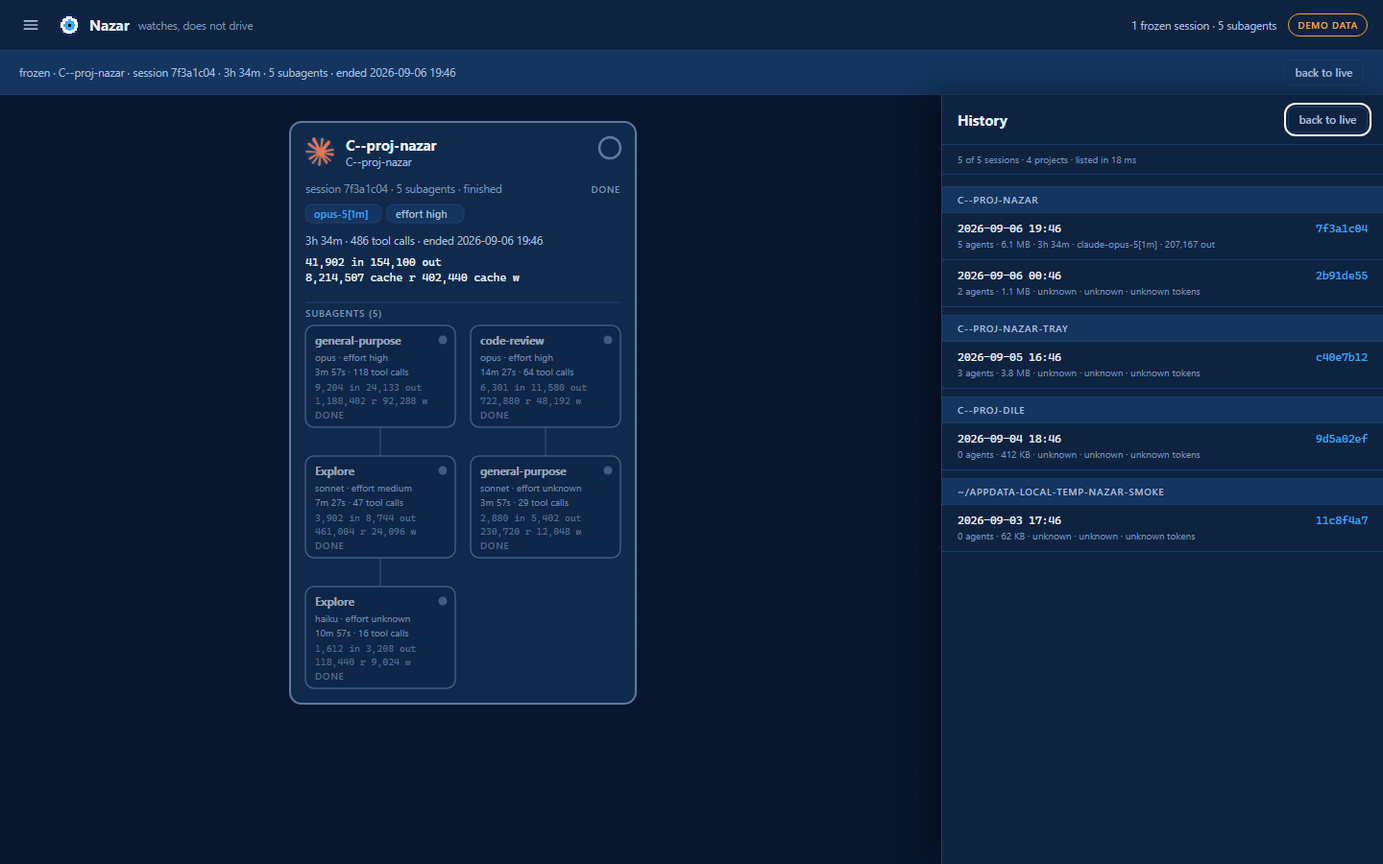
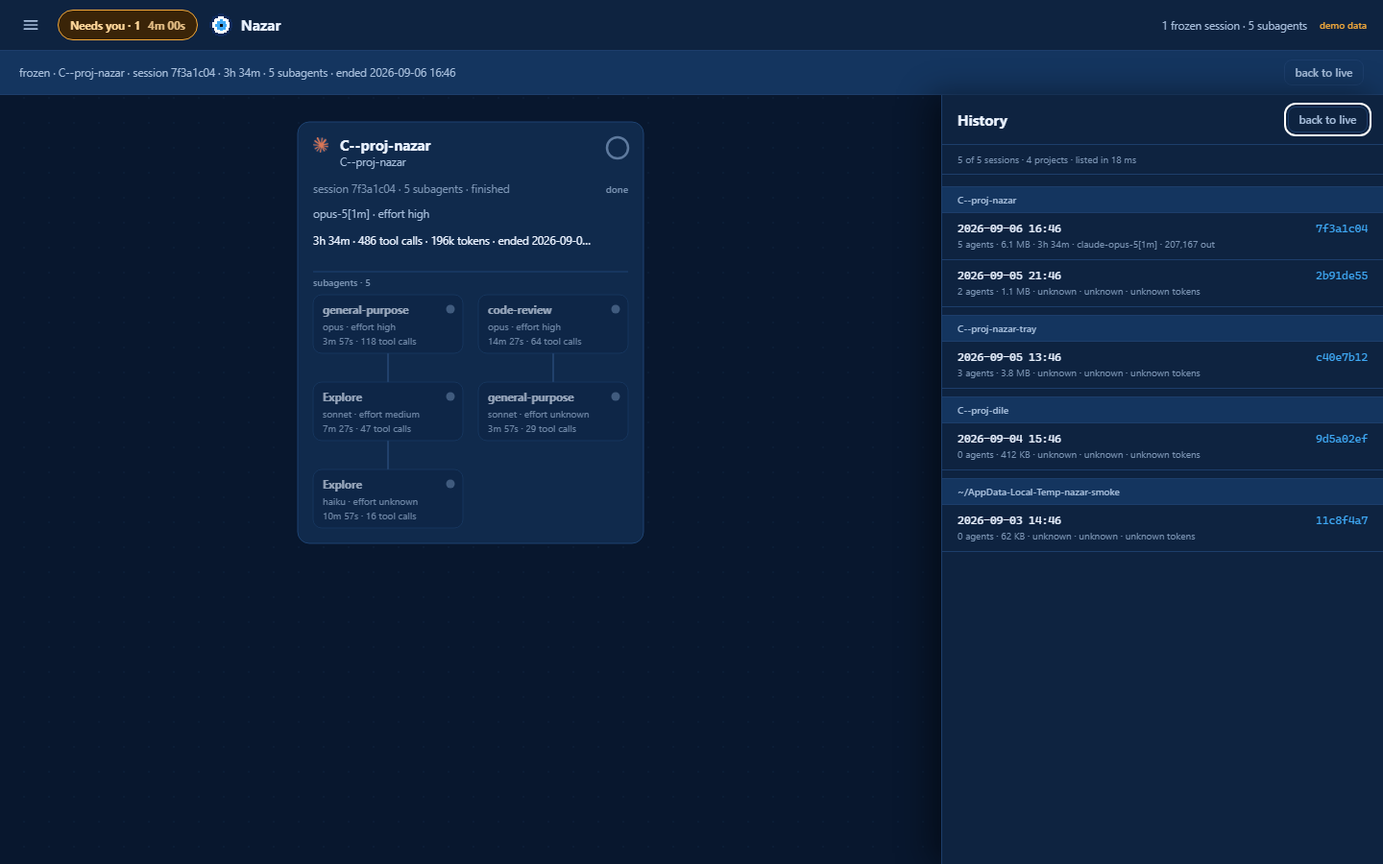
docs(readme): a screenshot beside every feature
N-WP22. The README carried fourteen pictures and five of them were stacked at
the top, so a reader who wanted to know what a folder tab, a card menu or the
Needs-you strip looked like had to read a paragraph and imagine it. Eight of
the ten shots taken for N-WP10 through N-WP21 now sit beside the paragraph
they belong to, each with the hand-written alt text an image costs here, and
the four at the top were re-picked: the quiet card leads, the Needs-you strip
is third, and the two tree pictures moved down to the paragraph about folding
a tree away. Twenty-two pictures, and no feature described without one.

Seven shots had to be retaken, and every one of them was a window too small
for the sentence beside it. wp4c-sixty-agents-dark was cut off at 950 px, so
the picture of a card that grew to hold sixty subagents was a picture of a
crop; it is 1900 now. The wp4g pair was cut through the second row of cards at
800, because a tab bar takes a row off the top of every projects=1 shot.
n-wp13-language-tr-dark opened the settings panel and stopped there, which on
a panel that scrolls is a picture of Appearance rather than of the language
picker, so it scrolls to it. And wp4c-dragged-dark was a card standing still
with its name field open: the drag started at the handle's centre, and the
transparent rename strip over the title covers the top 20 px of that handle
and takes the press first. It grabs low in the handle now, which is what `at`
on a drag step is for.
[…]

diff --git a/packages/ui/src/demo.ts b/packages/ui/src/demo.ts
@@ -27,8 +27,10 @@ import type {
   StateSnapshot,
 } from '@nazar/core';
 
+import { isWaiting } from './activity.js';
 import type { DemoQuotaSource } from './demo-quota.js';
 import { makeDemoQuota } from './demo-quota.js';
+import type { NeedsYouState, WaitSince } from './needs-you.js';
 
 const MINUTE = 60_000;
 
@@ -700,6 +702,53 @@ export function makeDemoState(options: DemoOptions = {}): StateSnapshot {
 }
 
 /* ------------------------------------------------------------------ *
+ * N-WP21 on a canvas whose clock does not move
+ * ------------------------------------------------------------------ */
+
+/**
+ * How long the demo's waiting session has already been waiting.
+ *
+ * The Needs-you strip keeps its clocks in memory and starts them at the frame
+ * it first sees a wait — a deliberate limit, and the reason a freshly loaded
+ * page reads `0s` beside a question that was asked before it opened. On a real
+ * canvas that number climbs while you look at it. On the demo, whose clock is a
+ * constant so that two screenshot runs agree byte for byte, it never does: the
+ * strip started counting at `generatedAt` and is being read at `generatedAt`,
+ * so every picture of it showed `0s` — the one number the strip exists to make
+ * legible, and the only one it could not show.
+ *
+ * So the demo hands the strip a memory instead of letting it start from
+ * nothing. Four minutes, measured from the snapshot's own `generatedAt` rather
+ * than from a real clock, which keeps the picture as fixed as the rest of the
+ * canvas.
+ */
+export const DEMO_WAITED_MS = 4 * MINUTE;
+
+/**
+ * The strip's memory as the demo canvas starts with it.
+ *
+ * Only `waiting` is filled. `active` and `finished` are left empty on purpose:
+ * `observeSessions` builds the *while you were away* cluster out of a
+ * transition — work in flight on the previous frame and none on this one — so a
+ * seeded `active` would invent one and announce sessions as having just
+ * finished that the demo never ran.
+ */
+export function demoNeedsYou(state: StateSnapshot): NeedsYouState {
+  const waiting = new Map<string, WaitSince>();
+  for (const session of state.sessions) {
+    if (!isWaiting(session)) continue;
+    waiting.set(session.id, {
+      // The raw value and not a translated one: `observeSessions` compares this
+      // against the session's own `waitingFor` to decide whether this is still
+      // the same wait, and a mismatch would reset the clock on the next frame.
+      waitingFor: session.waitingFor ?? '',
+      since: state.generatedAt - DEMO_WAITED_MS,
+    });
+  }
+  return { waiting, active: new Set(), finished: new Map() };
+}
+
+/* ------------------------------------------------------------------ *
  * The fixtures the demo canvas dresses itself with (moved here by N-WP13)
  *
  * They used to sit in `web/app.ts`, where the i18n sweep found them and was
@@ -725,18 +774,24 @@ export interface DemoNote {
  * of thing a note on this canvas is actually for — a reminder attached to a
  * place on a map — rather than lorem ipsum, which would prove nothing about the
  * width the text has to survive.
+ *
+ * They sit **under** the cards rather than beside them. Their first home was
+ * the empty column to the right of the second row, which stopped being empty
+ * the day N-WP18 put a fifth card there: the screenshot then showed three
+ * sticky notes covering a session, which is a picture of an accident. A row of
+ * its own cannot be taken by a sixth.
  */
 export const DEMO_NOTES: readonly DemoNote[] = [
   {
-    x: 790,
-    y: 500,
+    x: 30,
+    y: 840,
     colour: 1,
     text: 'the long one on the left is the release build — leave it alone until the installer is signed',
   },
-  { x: 1035, y: 500, colour: 3, text: 'weekly window resets Sunday 04:00' },
+  { x: 275, y: 840, colour: 3, text: 'weekly window resets Sunday 04:00' },
   {
-    x: 1280,
-    y: 500,
+    x: 520,
+    y: 840,
     colour: 4,
     text: 'waiting on a permission prompt again: check the sandbox rule before answering',
   },

diff --git a/packages/ui/test/demo.test.ts b/packages/ui/test/demo.test.ts
@@ -13,8 +13,9 @@ import assert from 'node:assert/strict';
 import '../test/catalogs.ts';
 import test from 'node:test';
 
-import { agentActivity, sessionActivity } from '../src/activity.ts';
-import { forestOf, makeDemoState } from '../src/demo.ts';
+import { agentActivity, isWaiting, sessionActivity } from '../src/activity.ts';
+import { DEMO_WAITED_MS, demoNeedsYou, forestOf, makeDemoState } from '../src/demo.ts';
+import { observeSessions, waitingRows } from '../src/needs-you.ts';
 
 const NOW = 1_788_756_000_000;
 
@@ -155,4 +156,28 @@ test('zero sessions is a legal demo canvas, so the empty state is reachable', ()
   const state = makeDemoState({ now: NOW, sessions: 0 });
   assert.deepEqual(state.sessions, []);
   assert.equal(state.generatedAt, NOW);
+});
+
+test('N-WP21: the strip starts with the demo wait already four minutes old', () => {
+  const state = makeDemoState({ now: NOW });
+  const seeded = demoNeedsYou(state);
+
+  const waiting = state.sessions.filter(isWaiting);
+  assert.equal(waiting.length, 1, 'one waiting session, or the picture proves nothing');
+  assert.equal(seeded.waiting.size, waiting.length);
+  assert.equal(seeded.active.size, 0, 'a seeded `active` would invent a finished run');
+  assert.equal(seeded.finished.size, 0);
+
+  const [session] = waiting;
+  assert.ok(session !== undefined);
+  const since = seeded.waiting.get(session.id);
+  assert.ok(since !== undefined);
+  assert.equal(since.since, NOW - DEMO_WAITED_MS);
+  // Raw and not translated, so `observeSessions` reads it as the same wait and
+  // keeps the clock rather than restarting it on the next frame.
+  assert.equal(since.waitingFor, session.waitingFor);
+
+  // The number the strip actually draws, against the demo's own fixed clock.
+  const rows = waitingRows(observeSessions(seeded, state.sessions, NOW), state.sessions, NOW);
+  assert.equal(rows[0]?.waited, '4m 00s');
 });

diff --git a/packages/ui/web/app.ts b/packages/ui/web/app.ts
@@ -25,7 +25,13 @@ import type { ColourOverrides } from '../src/colours.ts';
 import { readColours, writeColours } from '../src/colours.ts';
 import { contextActionOf } from '../src/contextmenu.ts';
 import { DEMO_HISTORY_IDS, makeDemoHistory } from '../src/demo-history.ts';
-import { DEMO_NOTES, DEMO_PROJECT_ROOTS, DEMO_CARD_NAMES, makeDemoState } from '../src/demo.ts';
+import {
+  DEMO_NOTES,
+  DEMO_PROJECT_ROOTS,
+  DEMO_CARD_NAMES,
+  demoNeedsYou,
+  makeDemoState,
+} from '../src/demo.ts';
 import { emptyStateLines } from '../src/empty.ts';
 import {
   basename,
@@ -3141,6 +3147,10 @@ function start(): void {
       ...(demoQuota === undefined ? {} : { quota: demoQuota }),
     });
     setConnection('demo');
+    // N-WP21. The strip's clocks start at the first frame, and the demo's clock
+    // never moves, so without this the Needs-you row reads `0s` beside a
+    // question nobody has answered — the one number it exists to show.
+    needsYou.seed(demoNeedsYou(state));
     // Two switches the screenshots need, so a shot of a folded card or an open
     // sidebar is a URL rather than a script of clicks.
     if (params.get('sidebar') === '1') sidebar.set(true, false);

diff --git a/packages/ui/web/needs-you.ts b/packages/ui/web/needs-you.ts
@@ -131,6 +131,20 @@ export class NeedsYouStrip {
     options.panel.addEventListener('keydown', (event) => this.onKey(event));
   }
 
+  /**
+   * Start from a memory rather than from nothing. `?demo=1` only.
+   *
+   * The clocks in this strip start at the frame that first sees a wait, which
+   * on a canvas whose clock is pinned means they never leave zero. The demo
+   * canvas therefore says how long its waiting session has been waiting —
+   * `demoNeedsYou` in `src/demo.ts` — and the live canvas never calls this: a
+   * real page genuinely does not know what happened before it opened, and
+   * saying otherwise would be the guess this whole module refuses to make.
+   */
+  seed(memory: NeedsYouState): void {
+    this.memory = memory;
+  }
+
   /** True while the panel is on screen. */
   get isOpen(): boolean {
     return this.open;

diff --git a/README.md b/README.md
@@ -8,15 +8,13 @@ It watches. It does not launch, control, or answer permission prompts. **It inst
 
 > Status: **0.1.0, feature-complete and not yet published.** Everything below is built and smoke-tested on Windows, macOS and Linux: the free canvas with tabs, the activity frames, the Windows desktop shell and its jump to terminal, usage limits, cost and context window, four themes, your own frame colours, sticky notes, card resize, clear-finished, card names and projects. What is missing is the release itself — it is not on npm yet, so `npx @xfurqan0/nazar` will not resolve until the first one. Until then, clone it and run from source (see [Development](#development)). [docs/PROJECT.md](docs/PROJECT.md) holds the v1 plan; [CHANGELOG.md](CHANGELOG.md) holds what 0.1.0 contains.
 
-![The Nazar canvas: four sessions with their subagent trees. The working one has a green ring and reads working, the resting one a blue ring reading idle, the one whose process stopped answering a dashed grey ring reading unknown, and the one waiting on a permission prompt is the single card with a coloured border, in amber, reading permission prompt](docs/screenshots/wp4d-activity-dark.png)
+![The Nazar canvas: five session cards, each with its subagent tree drawn underneath. A green ring reads working, a blue one idle and a dashed grey one unknown; the card waiting on a permission prompt is the only one wearing a colour on its own border, in amber, with the same words repeated on a banner across the top of the page](docs/screenshots/n-wp15-quiet-cards-dark.png)
 
-![The Nazar canvas: three sessions with their subagent trees, wrapped two on the first row and one below, a tab bar above them, a banner for the session waiting on a permission prompt, and the sidebar open on its Theme, Colours and Projects sections](docs/screenshots/wp4c-overview-dark.png)
+![The same canvas with the drawer open on the left: a Sessions list naming all five cards with the folder each one runs in, a Folder tabs section saying there are none yet and how to open one, and a View group with arrange, fit and add note](docs/screenshots/wp4c-overview-dark.png)
 
-![One session with sixty subagents: the card grows to hold its whole tree, which wraps onto rows, and every connector stays inside the frame](docs/screenshots/wp4c-sixty-agents-dark.png)
+![The Needs you badge in the top bar, reading Needs you · 1 and 4m 00s, with its panel open underneath: one row naming the card nazar-tray, the folder it runs in, what it is waiting for — permission prompt — the same 4m 00s, and an arrow that takes you to the card](docs/screenshots/n-wp21-needs-you-dark.png)
 
-![The same session with its tree folded away: one line of chips reading 60 subagents, 37 running, 22 done, 1 unknown](docs/screenshots/wp4c-collapsed-dark.png)
-
-![The History panel: past sessions grouped by project, and one of them opened as a frozen tree with per-agent duration and tool-call counts](docs/screenshots/wp4b-history-dark.png)
+![The History panel down the right-hand side: five past sessions grouped under the four project folders they ran in, newest first, with one of them opened on the canvas as a frozen tree of five subagents, each carrying the time it ran for and how many tools it called](docs/screenshots/wp4b-history-dark.png)
 
 ## Install
 
@@ -127,24 +125,48 @@ It is a canvas, so the sessions go where you want them.
 - **Arrange** (<kbd>a</kbd>) re-packs everything into rows, filling the width before it wraps. **Fit** (<kbd>0</kbd>) frames what is on screen. <kbd>+</kbd> and <kbd>-</kbd> zoom — and so do <kbd>=</kbd> and <kbd>_</kbd>, which are the aliases that matter, because `+` needs Shift on most layouts and `=` does not. <kbd>Enter</kbd> on a focused card jumps to its terminal, which the desktop shell answers and a browser tab explains.
 - **Tabs are canvases.** *All* shows every session; add one with **+**, rename it by double-clicking it, and move a session onto it either from the **⋯** menu on the card or by dragging the card onto the tab title. A session lives on exactly one tab, and *All* is where anything you have not filed lives. <kbd>Ctrl</kbd>+<kbd>1</kbd>…<kbd>9</kbd> switch. When a session ends it stays where you put it until Claude Code stops keeping its transcript.
 - **Name a card.** Click its title — or **Name this card…** in the **⋯** menu — and type. The name takes the title line, the folder it was named after stays on the line below, and Enter commits, Escape cancels, an empty field clears it. The name shows on the card, in the hover card and in a tab's tooltip, so a tab you are not looking at can say *release build, tray installer* rather than just a count. Nazar cannot rename your terminal and does not try; once a card carries a name, the **⋯** menu prints the one line that makes the two agree (`/rename <name>`, typed in that session), which is worth doing because **jump to terminal matches terminal titles and not card names**.
+
+  ![Five cards on the dark canvas. Two are titled with names their user typed — release build and tray installer — each with the folder it was named after on the line below; a third has an inline text field open over its title with importer rewrite in it; the last two are still titled by their folders, atlas and puantaj](docs/screenshots/wp4g-rename-dark.png)
+
 - **Folder tabs are folders that own a tab.** A folder tab is a folder path, and every session whose working directory is inside it lands on that tab by itself — live and in history, with nothing to file. You open one **from a session you can already see**, never by typing a path: the sidebar's **Sessions** list has one row per session with the folder it is running in, and a button that says *Open a tab for `app`*. Right-clicking that row — or the card on the canvas — opens the same menu under **Open a tab for**, which offers every folder up the tree, so a session in `C:\proj\app\src` can have a tab for `C:\proj\app` instead. **The tab is named after the folder** and you are not asked: `app`. Two folders ending in the same word are told apart by their parent (`api · srv`, `api · web`), and you can still rename any tab by double-clicking it. The **deepest** matching folder wins, so `C:\proj` and `C:\proj\app` can both exist and a session in `app` belongs to the second. Separators and letter case do not matter on Windows paths. Dragging a card onto another tab still wins — that is a **pin** — and **Follow project** in the **⋯** menu hands it back to the rule.
+
+  ![The tab bar reading All 5, then two folder tabs with folder icons — nazar 1 and dile 1 — with the nazar tab selected, so the canvas below holds the single card that runs in that folder and nothing else](docs/screenshots/n-wp11-folder-tab-dark.png)
+
+  ![The same tab bar with All selected, and the drawer open beside it: a Sessions list with a button on each row to open a tab for its folder, and a Folder tabs section listing nazar as 1 live · 2 past and dile as 1 live · 1 past, each with a button to close it](docs/screenshots/wp4g-projects-dark.png)
+
 - **The sidebar's Folder tabs section** lists them with their live and past session counts, renames and removes them, and carries **auto-create projects for new folders**, which is off by default: on a machine with forty repositories it is forty tabs. The past column reads `—` until the transcript store has been read once, because a `0` there would be a number nobody measured; one button reads it. Closing a folder tab deletes the rule and nothing else — no session, no transcript, no folder.
 - **Fold a big tree away** with the chevron on the card. A folded card shrinks to one column and says `60 subagents` `37 running` `22 done` `1 unknown` instead — discrete chips rather than one line, and the last of them is drawn only when some agent really is `unknown`. A count of zero is dropped rather than shown as `0 running`; the total stays even at zero, because it is the reason the card was folded. Useful when one session has sixty subagents and the other three have two.
+
+  ![One session card holding sixty subagents: the card has grown down the whole page to fit them, the tree wraps onto row after row of nodes, and every connector between a parent and its children stays inside the card's frame](docs/screenshots/wp4c-sixty-agents-dark.png)
+
+  ![The same session with its tree folded away: the card is now a few lines tall, and where the tree was there is one row of chips reading 60 subagents, 37 running, 22 done and 1 unknown](docs/screenshots/wp4c-collapsed-dark.png)
+
 - **Resize a card from any edge or corner.** The four **edges** each move one dimension — top and bottom set the height, left and right the width — and the opposite edge stays where it is, so a card grows in the direction you pulled rather than shifting under your hand. The four **corners** scale the card as a whole, keeping the proportions it had when you grabbed it. The width is the tree's wrapping budget, so a resize *re-lays the tree out* rather than scaling it: pull a card wider and its subagents spread into more columns; pull it narrower and they wrap into more rows. A card can be made taller than its tree — the extra room shows up under it — and never shorter, and it will not go narrower than the tree that is showing needs, which is why that floor drops the moment you fold the tree away or clear its finished agents. **Reset size** in the **⋯** menu gives a card back to the automatic sizing on both axes.
+
+  ![Two session cards on the dark canvas. The left one has been pulled in from its right-hand edge, so it is narrower than its neighbour and its sixteen subagents have re-wrapped from five columns into four, making the card taller; small grips are drawn at its corners and along its edges](docs/screenshots/n-wp10-resize-dark.png)
+
 - **Clear finished subagents** from the **⋯** menu. On a session that has been running for hours the forty agents that finished are what pushed the three still working off the screen. This puts them away — and away, not gone: nothing is deleted, a `6 finished hidden · show` chip on the card brings every one of them back in one click, and the History panel shows the run entire. A finished agent that spawned one still running stays put, because taking it would orphan its child.
+
+  ![A session card whose tree now reads subagents · 10 rather than · 16, with a dashed chip on its rule reading 6 finished hidden · show. Every running subagent is still drawn; the one finished agent left in the tree is the one with a child still running under it](docs/screenshots/wp4f-cleared-dark.png)
+
 - **The dots move with you.** The background pattern pans and zooms with the cards, so a drag reads as the eye travelling over a canvas rather than as the cards sliding across a fixed window.
 - **Right-click anything.** On a card it opens that card's **⋯** menu at the pointer, in the menu's own order — *Jump to terminal* first, and only in the desktop shell; *Name this card…* or *Rename card…*; *Clear name* and the `/rename` line, both only once the card has a name; **Move to** and the tabs; *New tab…*; **Open a tab for** and the folders up the tree, each of which becomes *Go to tab* once that folder has one; *Follow project*, only on a card you pinned by hand; *Collapse* or *Expand subagents*; *Clear finished subagents (N)*; *Show N hidden*; and *Reset size*, only on a card you have resized — instead of the browser's menu, which has nothing to say about a session. On empty canvas it offers **Add note here · Arrange · Fit**, and on a note it opens that note's own **⋯** menu. Everywhere else — the top bar, the sidebar, the tab bar, a frozen history tree — the browser's menu is simply gone: there is nothing there to offer, and a page that answers the gesture in four places out of five looks broken in the fifth. **The one exception is a text field.** An `<input>`, a `<textarea>` or a note you are typing into keeps the browser's own menu, because that is where Cut, Paste, Undo and the spell-checker live and no menu this canvas draws could carry them.
+
+  ![A card's own menu opened at the pointer over its header, listing Name this card…, a Move to group with the tab All under it, New tab…, an Open a tab for group offering the folders nazar and proj with their paths beside them, and a Tree group with Collapse subagents and Clear finished subagents (2)](docs/screenshots/n-wp19-card-menu-dark.png)
+
 - **Sticky notes.** **Add note** in the sidebar, or double-click empty canvas, and type. Drag a note by its top edge, resize it from the corner, and use its **⋯** — or right-click the note, which opens the same menu at the pointer — for one of four colours or to delete it. A note with the caret in it is being edited and keeps the browser's menu instead; press <kbd>Esc</kbd> to leave the text box, and the right-click is the note's own again. Plain text, up to 2,000 characters, one set of notes per tab — closing a tab moves its notes to *All* rather than deleting them. Notes pan and zoom with the canvas, because a note is pinned to a place on the map.
+
+  ![Three sticky notes in a row on the canvas below the session cards: an olive one reading the long one on the left is the release build — leave it alone until the installer is signed, a green one reading weekly window resets Sunday 04:00, and a red one reading waiting on a permission prompt again: check the sandbox rule before answering, each with its own ⋯ button on its top edge](docs/screenshots/wp4e-notes-dark.png)
+
 - **The sidebar** (the hamburger, or <kbd>m</kbd>) holds light/dark, the theme, your own frame colours, arrange, fit, add note, your folder tabs, the sessions on the canvas, history and the demo switch; then a **Usage limits** group naming the source and linking to how to get one; then a **Desktop app** group with *start with Windows* and the line about jumping, hidden outright in a browser because only the shell can answer it; then **About**, with the version, the line that tells you to run `nazar doctor` in a terminal when the canvas is empty, and the repository link. The counts and the connection pill stay in the top bar; so do the `Needs you` badge, the usage-limits bead and the waiting banner. The line about jumping is hidden on a desktop app whose platform has no jump, for the same reason it is hidden in a browser.
+
+  ![The settings panel filling the drawer's place, with a back arrow beside the word Settings: an Appearance group with a system, light and dark segment and the four theme buttons, a Colours group with a swatch, a contrast reading and a reset link for each of the five activity colours, and a Behaviour group with switches for auto-create tabs, show task text and demo data](docs/screenshots/n-wp12-settings-dark.png)
+
 - **A sound when a session ends.** A 250 ms tick, on by default, so a long run can finish while you are looking at something else. It is the *session* that rings, never a subagent, and never more than once for the same one: several sessions ending together are one sound, and the canvas stays silent for the first five seconds after the page opens so a reload does not ring for work that finished while nobody was watching. A second sound for **a session waiting for permission** is off by default, and **quiet hours** (off, `22:00`–`07:00` when you turn them on, wrapping midnight on your own clock) silence both. All of it is in the settings panel under **Behaviour**, with a button that plays the tick so you can hear it before you decide. **Sounds play after your first click** — every browser refuses to start audio on a page nobody has touched, so Nazar builds nothing until you click or press a key, and says so once if a session ends before you have. The clip is synthesised by `scripts/render-sound.mjs` and committed; a test re-renders it and fails if the bytes have moved.
 
+  ![The settings panel scrolled to its Sound group: a switch on for sound when a session ends, one off for sound when a session waits for permission, quiet hours switched on, and under it the two time fields it reveals, from 22:00 to 07:00, then a test the sound button and the line explaining the tick](docs/screenshots/n-wp16-sound-setting-dark.png)
+
 None of this touches a session. Moving a card moves a picture in your browser.
-
-![Three sticky notes on the dark canvas, to the right of the session cards: an olive one reading the long one on the left is the release build — leave it alone until the installer is signed, a green one reading weekly window resets Sunday 04:00, and a red one reading waiting on a permission prompt again: check the sandbox rule before answering, each with its own ⋯ button on its top edge](docs/screenshots/wp4e-notes-dark.png)
-
-![The dark canvas with a tab bar reading All 4, and two project tabs with folder icons: nazar 1 and dile 1. The sidebar is open on its Projects section, listing nazar (1 live, 2 past) and dile (1 live, 1 past), a new project button, and the auto-create switch set to off](docs/screenshots/wp4g-projects-dark.png)
-
-![Four cards on the dark canvas. Two are titled with names their user typed — release build and tray installer — with their folders on the line below; the third has an inline text field open over its title reading importer rewrite; the fourth is still titled by its folder, atlas](docs/screenshots/wp4g-rename-dark.png)
 
 **Names and projects never leave the browser.** A card's name is not sent to the server, not written to disk and not pushed into your session. A project is matched against the working directory the canvas was already drawing on the card — the redacted one, with your home directory collapsed to `~` — so nothing about this feature put a path on the wire or in a screenshot that was not there before. That is also why a project under your home directory is written the way the cards write it, `~/proj/app`, and the expanded form does not match: the browser is never told what `~` stands for.
 
@@ -193,6 +215,8 @@ Three switches, and each one outranks the one before it:
 asserts that every task on the demo canvas came out of a hand-written list — a demo
 screenshot is what ends up in a README, and it must never be a picture of somebody's real
 work.
+
+![The canvas with task text switched on: each of the five session cards carries one extra line in italics under its folder saying what it was last asked to do, and each subagent node carries the three-word label the Agent tool wrote for it. Every sentence in the picture is invented](docs/screenshots/n-wp15a-task-text-dark.png)
 
 ### Six UI languages
 

diff --git a/docs/screenshots/README.md b/docs/screenshots/README.md
@@ -69,43 +69,51 @@ Each shot is then taken twice and only accepted when the two agree.
 | `wp4-200-light.png` | The same canvas at 2×, light | PROJECT.md §8, WP4 |
 | `wp4-empty-dark.png` | The empty state: no session on the machine, and the lines that say why | PROJECT.md §8, WP4 |
 | `wp4-hover-dark.png` | The hover card over a session: tokens, context window, the folder | PROJECT.md §8, WP4 |
-| `wp4b-history-dark.png` | The History panel, past sessions grouped by project, one opened as a frozen tree | **README**, *What it looks like*, 5th image |
+| `wp4b-history-dark.png` | The History panel, past sessions grouped by project, one opened as a frozen tree | **README**, *What it looks like*, 4th image |
 | `wp4c-overview-dark.png` | Sessions with their trees, the tab bar, the waiting banner, the drawer open | **README**, *What it looks like*, 2nd image |
 | `wp4c-overview-light.png` | The same, light | PROJECT.md §8, WP4c |
-| `wp4c-sixty-agents-dark.png` | One session with sixty subagents: the card grows, the tree wraps | **README**, *What it looks like*, 3rd image |
-| `wp4c-collapsed-dark.png` | The same session folded away: one row of chips counting the tree | **README**, *What it looks like*, 4th image |
+| `wp4c-sixty-agents-dark.png` | One session with sixty subagents: the card grows, the tree wraps | **README**, *Fold a big tree away* |
+| `wp4c-collapsed-dark.png` | The same session folded away: one row of chips counting the tree | **README**, *Fold a big tree away*, 2nd image |
 | `wp4c-dragged-dark.png` | A card dragged out of the grid, to show the arrangement is the user's | PROJECT.md §8, WP4c |
-| `wp4d-activity-dark.png` | Sessions in four states — working, idle, waiting, unknown — framed and labelled | **README**, *What it looks like*, 1st image |
-| `wp4d-activity-light.png` | The same four states, light | **README**, *The frame says whether it is working* |
+| `wp4d-activity-dark.png` | Sessions in four states — working, idle, waiting, unknown — framed and labelled | PROJECT.md §8, WP4d |
+| `wp4d-activity-light.png` | The same four states, light | PROJECT.md §8, WP4d |
 | `wp4e-themes-sepia.png` | The Sepia palette in light mode, settings open on Appearance | **README**, *Themes* |
 | `wp4e-themes-midnight.png` | The Midnight palette in dark mode, settings open on Appearance | **README**, *Themes* |
 | `wp4e-colours-dark.png` | Two activity colours overridden, with the cards already reframed | **README**, *Themes*, 3rd image |
-| `wp4e-notes-dark.png` | Three sticky notes beside the cards, one per colour | **README**, *Notes* |
+| `wp4e-notes-dark.png` | Three sticky notes on the canvas under the cards, one per colour | **README**, *Sticky notes* |
 | `wp4e-notes-light.png` | The same three notes, light | PROJECT.md §8, WP4e |
 | `wp4e-popover-dark.png` | The usage-limits panel: six windows, every severity, two sources | **README**, *Usage limits, cost and context* |
 | `wp4e-popover-light.png` | The same panel, light | PROJECT.md §8, WP4e |
 | `wp4f-resize-dark.png` | A card dragged narrower from its corner: the tree re-wraps, the grips are drawn | **README**, *Resize a card* |
 | `wp4f-cleared-dark.png` | The same card with its finished subagents hidden, and the chip that brings them back | **README**, *Resize a card*, 2nd image |
-| `wp4g-projects-dark.png` | Two project tabs, the drawer listing each project live and past | **README**, *Folder tabs and card names* |
-| `wp4g-rename-dark.png` | Cards titled by their user, one with the inline name field open | **README**, *Folder tabs and card names*, 2nd image |
+| `wp4g-projects-dark.png` | Two folder tabs, and the drawer listing each with its live and past counts | **README**, *Folder tabs are folders that own a tab* |
+| `wp4g-rename-dark.png` | Cards titled by their user, one with the inline name field open | **README**, *Name a card*, 2nd image |
 | `wp5-quota-dark.png` | The bead in the top bar on a machine with nazar-tray installed | PROJECT.md §8, WP5 |
 | `wp5-quota-light.png` | The same bead, light | PROJECT.md §8, WP5 |
-| `n-wp10-resize-dark.png` | All eight resize handles: a card dragged from its east edge | *new — not yet in the README* |
-| `n-wp11-folder-tab-dark.png` | A folder tab selected: only the sessions under that folder | *new — not yet in the README* |
-| `n-wp12-settings-dark.png` | The settings panel in the drawer's own place | *new — not yet in the README* |
-| `n-wp13-language-tr-dark.png` | The whole canvas in Turkish, with the language picker open | *new — not yet in the README* |
-| `n-wp15-quiet-cards-dark.png` | The quieter card: neutral frame, the pulse moved to the ring | *new — not yet in the README* |
-| `n-wp15a-task-text-dark.png` | Task text on the cards: one line per session saying what it was asked to do | *new — not yet in the README* |
-| `n-wp16-sound-setting-dark.png` | The sound switches under Behaviour, with quiet hours open | *new — not yet in the README* |
+| `n-wp10-resize-dark.png` | All eight resize handles: a card dragged from its east edge | **README**, *Resize a card from any edge or corner* |
+| `n-wp11-folder-tab-dark.png` | A folder tab selected: only the sessions under that folder | **README**, *Folder tabs are folders that own a tab* |
+| `n-wp12-settings-dark.png` | The settings panel in the drawer's own place | **README**, *The sidebar* |
+| `n-wp13-language-tr-dark.png` | The whole canvas in Turkish, with the settings panel scrolled to the six-language picker | *new — not yet in the README* |
+| `n-wp15-quiet-cards-dark.png` | The quieter card: neutral frame, the pulse moved to the ring | **README**, *What it looks like*, 1st image |
+| `n-wp15a-task-text-dark.png` | Task text on the cards: one line per session saying what it was asked to do | **README**, *Task text* |
+| `n-wp16-sound-setting-dark.png` | The sound switches under Behaviour, with quiet hours open | **README**, *A sound when a session ends* |
 | `n-wp18-codex-session-dark.png` | A Codex thread: its own badge, no pid, no subagents, no cost | *new — not yet in the README* |
-| `n-wp19-card-menu-dark.png` | The canvas's own right-click menu on a card | *new — not yet in the README* |
-| `n-wp21-needs-you-dark.png` | The Needs-you strip open: who is waiting, and for how long | *new — not yet in the README* |
+| `n-wp19-card-menu-dark.png` | The canvas's own right-click menu on a card | **README**, *Right-click anything* |
+| `n-wp21-needs-you-dark.png` | The Needs-you strip open: who is waiting, and for how long | **README**, *What it looks like*, 3rd image |
 
-The ten `n-wp*` files are new and **deliberately not linked from the README
-yet**: adding an image means writing the alt text that goes with it, and the
-alt texts in this project are hand-written sentences describing the picture, not
-captions. They are taken so that the pictures exist when the README paragraph
-does.
+Eight of the ten `n-wp*` files were placed in the README by N-WP22, which also
+retook seven shots whose window was too small for what the paragraph beside
+them claims. `n-wp13-language-tr-dark.png` and
+`n-wp18-codex-session-dark.png` are still unplaced: adding an image means
+writing the alt text that goes with it, and the alt texts in this project are
+hand-written sentences describing the picture, not captions. They are taken so
+that the pictures exist when the README paragraph does.
+
+Two of the older shots left the README in the same round.
+`wp4d-activity-{dark,light}.png` drew the four activity states on the card as
+WP4d shipped it; `n-wp15-quiet-cards-dark.png` draws the same four on the
+quieter card and took the first image with it. They stay here as the record of
+what WP4d looked like.
 
 ## Adding one
 
